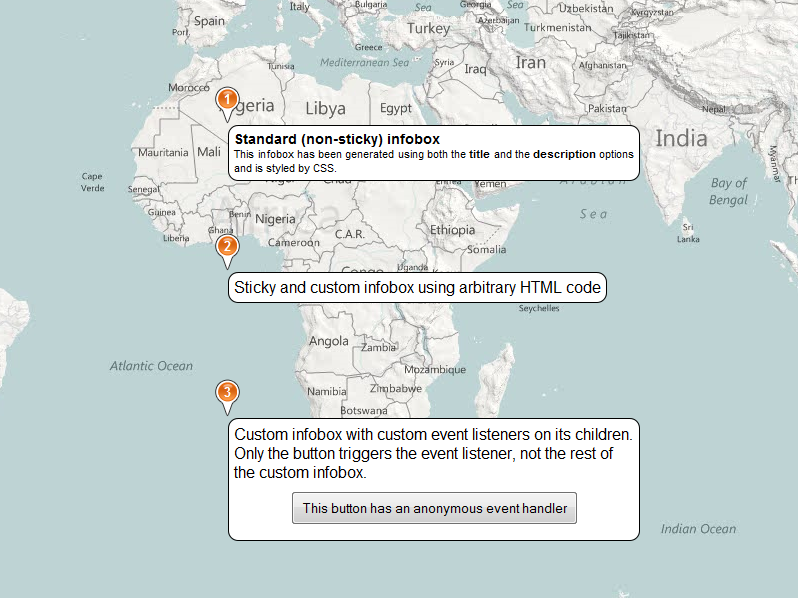
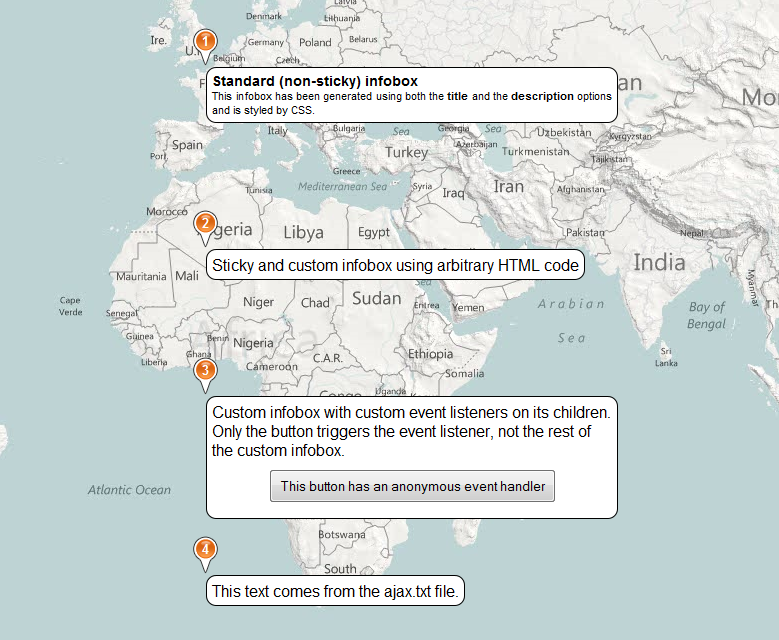
Added an example showing how to load the infobox contents via ajax using .load

diff --git a/ve7.infobox.html b/ve7.infobox.html
@@ -20,7 +20,7 @@
 
 
 
-<div id="myMap" style="position: relative; width: 800px; height: 600px;"></div>
+<div id="myMap" style="position: relative; width: 980px; height: 800px;"></div>
 
 
 <script type="text/javascript">
@@ -31,7 +31,7 @@ jQuery(document).ready(function($){
 		document.getElementById("myMap"),
 		{
 			credentials: "YOUR-BING-KEY",
-			center: new Microsoft.Maps.Location(-5, 30),
+			center: new Microsoft.Maps.Location(15, 30),
 			zoom: 3,
 			showDashboard: false,
 			showLogo: false,
@@ -45,7 +45,7 @@ jQuery(document).ready(function($){
 
 	// Pin 1: Standard autogenerated infobox 
 	var pin1 = map.AddPushpin(
-		new Microsoft.Maps.Location(25, 0),
+		new Microsoft.Maps.Location(50, 0),
 		{
 			text: '1',
 
@@ -58,7 +58,7 @@ jQuery(document).ready(function($){
 
 	// Pin 2: Custom infobox
 	var pin2 = map.AddPushpin(
-		new Microsoft.Maps.Location(0, 0),
+		new Microsoft.Maps.Location(25, 0),
 		{
 			text: '2',
 			sticky: true,
@@ -76,7 +76,7 @@ jQuery(document).ready(function($){
 	 .appendTo(custom_contents);
 
 	var pin3 = map.AddPushpin(
-		new Microsoft.Maps.Location(-25, 0),
+		new Microsoft.Maps.Location(0, 0),
 		{
 			text: '3',
 			sticky: true,
@@ -85,11 +85,27 @@ jQuery(document).ready(function($){
 			infobox: custom_contents
 		}
 	);
+	
+	
+	// Pin 4: Sticky infobox whose contents are loaded via ajax using .load()
+	var pin4 = map.AddPushpin(
+		new Microsoft.Maps.Location(-30, 0),
+		{
+			text: '4',
+			sticky: true,
+
+			// Custom infobox
+			infobox: $('<span>Loading contents...</span>').load('ajax.txt')
+		}
+	);
+
+
 
 	// Open the infoboxes without requiring user interaction
 	pin1.ShowInfoBox();
 	pin2.ShowInfoBox();
 	pin3.ShowInfoBox();
+	pin4.ShowInfoBox();
 
 });
 </script>
